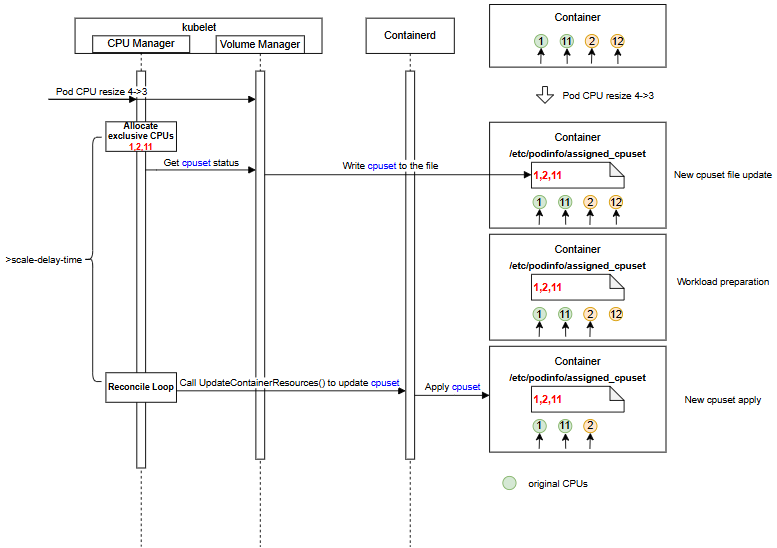
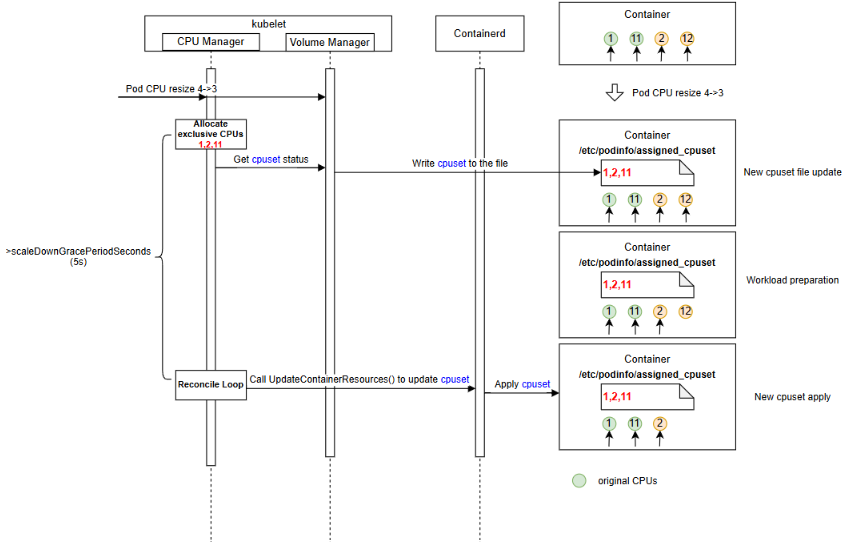
Modify images and add metric
1. Modify scale-down-delay to scaleDownGracePeriodSeconds in images
2. Add metric description in alpha
3. Modify the description: If the field is unset, the cpuset is applied at the next cpuset actuation — not immediately.

diff --git a/keps/sig-node/6122-configurable-scaling-delay/README.md b/keps/sig-node/6122-configurable-scaling-delay/README.md
@@ -36,6 +36,7 @@ tags, and then generate with `hack/update-toc.sh`.
       - [Kubelet Restart](#kubelet-restart)
     - [Resize Complete State](#resize-complete-state)
     - [Actual Resources Update](#actual-resources-update)
+    - [Metrics](#metrics)
   - [Test Plan](#test-plan)
       - [Prerequisite testing updates](#prerequisite-testing-updates)
       - [Unit tests](#unit-tests)
@@ -126,7 +127,7 @@ useful for a wide audience.
 A good summary is probably at least a paragraph in length.
 -->
 
-This proposal introduces a new pod-level field, `scaleDownGracePeriodSeconds`, which lets a pod declare a minimum delay before a new cpuset is applied to its containers after a scale-down event. Pods that do not set the field keep the current behavior, where the new cpuset is applied immediately.
+This proposal introduces a new pod-level field, `scaleDownGracePeriodSeconds`, which lets a pod declare a minimum delay before a new cpuset is applied to its containers after a scale-down event. Pods that do not set the field keep the current behavior: the new cpuset is applied at the next cpuset actuation, with no added delay.
 
 The delay gives a latency-sensitive workload a guaranteed window in which to prepare for the removal of CPUs from its cpuset — for example by migrating tasks away from the affected cores — so that performance degradation caused by sudden CPU loss is avoided. Learning *which* CPUs are about to be removed is the subject of the companion [KEP-6369](https://github.com/kubernetes/enhancements/issues/6369), which exposes the assigned cpuset through the Downward API.
 
@@ -185,7 +186,7 @@ The "Design Details" section below is for the real
 nitty-gritty.
 -->
 
-This proposal introduces a new pod-level field, `scaleDownGracePeriodSeconds`, which specifies the minimum delay before applying an updated cpuset when a container has its CPU allocation scaled down. This field is opt-in; pods that do not specify it (or set it to 0) experience immediate cpuset application, preserving the existing behavior.
+This proposal introduces a new pod-level field, `scaleDownGracePeriodSeconds`, which specifies the minimum delay before applying an updated cpuset when a container has its CPU allocation scaled down. This field is opt-in; for pods that do not specify it (or set it to 0), the new cpuset is applied at the next cpuset actuation, preserving the existing behavior.
 
 During the delay window, the container continues to use the current cpuset for at least the configured grace period. This allows latency-sensitive workloads to monitor and prepare for the upcoming CPUSet change before CPU(s) are removed from the container. The minimum delay must be guaranteed at all times, including during kubelet restarts.
 
@@ -198,7 +199,7 @@ This proposal does not require a handshake (acknowledgment) from the workload. T
 3.	The container learns the new cpuset through [KEP-6369](https://github.com/kubernetes/enhancements/issues/6369) — out of scope here, and not required for the delay itself.
 4.	The kubelet starts a 5-second timer. After waiting at least 5 seconds (the pod's specified `scaleDownGracePeriodSeconds`), the new cpuset {1, 2, 11} is applied to the container. Once applied, kubelet marks the container resize as successful.
 5.	During the interval between the notification and the new cpuset application, the container can perform necessary preparations for the DPDK workers (e.g., migrating tasks from CPU 12 to other CPUs).
-![alt text](a_case_of_scale_down_delay.png)
+![alt text](a_case_of_scale_down_delay.png )
 
 ### Risks and Mitigations
 
@@ -239,10 +240,10 @@ The overview of the design:
 ![alt text](scale_delay_overview.png)
 
 The basic flow shown in the diagram is as follows:
-- During allocation of new CPUSets, changes are not applied to assignments immediately but kept in preAssignments, and scale_delay_timers are started.
+- During allocation of new CPUSets, changes are not applied to assignments immediately but kept in preAssignments, and `scale_delay_timers` are started.
 - The new CPUSets kept in preAssignments are the values [KEP-6369](https://github.com/kubernetes/enhancements/issues/6369) exposes to the container.
 - During cpuset actuation, containers scaling down (with active `scale_delay_timer`) are skipped if the pod's `scaleDownGracePeriodSeconds` has not yet elapsed. For those where the time has passed, preAssignments are written to assignments and actuated in containers.
-- The SyncPod processes two actions after there are no active scale_delay_timer on the pod, and actuated states equal the allocated ones:
+- The SyncPod performs two actions after there is no active `scale_delay_timer` on the pod, and actuated states equal the allocated ones:
   - Marking the resize as completed
   - Updating the actual resources
 
@@ -259,6 +260,8 @@ The existing flow (before applying this KEP) among AllocationManager, CPUManager
 The flow after the modifications introduced by this KEP is as follows:
 
 ![alt text](flow_to_be.png)
+
+
 
 Regarding the ownership of resize:
 - **AllocationManager** is responsible for accepting resize and triggering the allocation phase. This KEP does not modify this part.
@@ -280,7 +283,7 @@ type PodSpec struct {
 	// CPUs during an in-place scale-down. The kubelet does not apply the new cpuset sooner
 	// than this duration after the new cpuset has been allocated.
 	// Value must be in the range [0, 10]. An unset field or the value zero
-	// applies the new cpuset immediately, with no preparation window. This field is
+	// adds no delay: the new cpuset is applied at the next cpuset actuation, with no preparation window. This field is
 	// immutable. It is honored only for containers with exclusive CPUs, and only when the
 	// InPlacePodVerticalScalingExclusiveCPUsScaleDownDelay feature gate is enabled.
 	// +optional
@@ -292,7 +295,7 @@ type PodSpec struct {
 |---|---|
 | Scope | Pod-level: applies to every container in the pod that scales down exclusive CPUs |
 | Range | `[0, 10]` seconds, validated by kube-apiserver; values outside the range are rejected |
-| Unset (`nil`) or `0` | No delay — the cpuset is applied immediately. This is the default and preserves the behavior from before this KEP |
+| Unset (`nil`) or `0` | No added delay — the cpuset is applied at the next cpuset actuation. This is the default and preserves the behavior from before this KEP |
 | Mutability | Immutable: rejected by `ValidatePodUpdate`, including as part of a resize request |
 | Feature gate disabled, pod creation | The pod is rejected in validation; the value is never dropped, so there is no `dropDisabledFields` handling for this field |
 | Feature gate disabled, pod update | Accepted if the old spec already carries the field, so that disabling the gate does not block updates of pods already using it |
@@ -313,7 +316,7 @@ Once the feature graduates to GA and the feature gate is removed, every kubelet 
 
 #### Grace Period Not Honored
 
-Scheduler filtering leaves one case open: the feature gate is turned off on a node that already runs a pod which sets `scaleDownGracePeriodSeconds` (a gate flip together with a node restart). Here the kubelet does **not** reject the pod, unlike the default handling in KEP-5328 — killing a running latency-sensitive pod is worse than resizing it without the preparation window. Instead the kubelet applies the new cpuset immediately and reports the skipped grace period:
+Scheduler filtering leaves one case open: the feature gate is turned off on a node that already runs a pod which sets `scaleDownGracePeriodSeconds` (a gate flip together with a node restart). Here the kubelet does **not** reject the pod, unlike the default handling in KEP-5328 — killing a running latency-sensitive pod is worse than resizing it without the preparation window. Instead the kubelet applies the new cpuset without the delay and reports the skipped grace period:
 
 - the `PodResizeInProgress` condition ([KEP-1287](https://github.com/kubernetes/enhancements/tree/master/keps/sig-node/1287-in-place-update-pod-resources)) carries a message stating that the grace period was not honored,
 - the kubelet emits an event with reason `ScaleDownGracePeriodNotHonored`.
@@ -327,7 +330,7 @@ The CPU Manager reads `scaleDownGracePeriodSeconds` from the spec of the pod bei
 1. In the Allocate CPU stage:
    Allocate a new CPUSet based on the container's assignments and defaultCPUset in the checkpoint (all references to "checkpoint" below refer to cpu_manager_state).
 
-   When a container scales down (If the CPU number of assignments in checkpoint > CPU request and limit for the container Pod Spec):
+   When a container scales down (if the CPU number of assignments in the checkpoint > CPU request and limit for the container in the pod spec):
    - If `scaleDownGracePeriodSeconds` is unset or 0, the container's scale down behavior is the same as before, after reallocating the new cpuset:
      - The removed_CPUs (assignments in checkpoint - new cpuset) are added to the defaultCPUset
      - The container's assignments are updated to the new cpuset
@@ -336,7 +339,7 @@ The CPU Manager reads `scaleDownGracePeriodSeconds` from the spec of the pod bei
      - A scale_delay_timer is started with the pod's `scaleDownGracePeriodSeconds` as its duration.
      - The new cpuset is saved in preAssignments, and both the preAssignments and the time at which the cpuset may be applied are recorded in the CPU manager checkpoint (see [Kubelet Restart](#kubelet-restart)).
 
-   When a container scales up (If the CPU number of assignments in checkpoint <= CPU request and limit for the container in Pod Spec), after reallocating the new cpuset:
+   When a container scales up (if the CPU number of assignments in the checkpoint <= CPU request and limit for the container in the pod spec), after reallocating the new cpuset:
    - The added_CPUs (new cpuset - assignments in checkpoint) are removed from the defaultCPUset.
    - The container's assignments are updated.
    - CPU manager checkpoint is updated immediately with new assignments and defaultCPUSet.
@@ -365,7 +368,7 @@ The following diagrams illustrate the two cases.
 
 **Case A: Timer expires before cpuset actuation time** — The scale_delay_timer expires between two cpuset actuation times. Since the timer has already expired when the next actuation time arrives, the new cpuset is applied at that actuation time as it normally would. In this case, the scale_delay_timer does not affect the actual time when the cpuset is applied.
 
-**Case B: Timer active during cpuset actuation time** — The scale_delay_timer is still active when the next cpuset actuation time arrives. The new cpuset cannot be applied at this actuation time because the timer has not yet expired. It is applied at the next actuation time after the timer expires. In this case, the actual delay is longer than the normal delay.
+**Case B: Timer active during cpuset actuation time** — The scale_delay_timer is still active when the next cpuset actuation time arrives. The new cpuset cannot be applied at this actuation time because the timer has not yet expired. It is applied at the next actuation time after the timer expires. In this case, the actual delay is longer than it would be without the timer.
 
 In both cases, the actual delay is at least `scaleDownGracePeriodSeconds`, but may be longer due to the gap between timer expiry and the cpuset actuation time.
 
@@ -416,6 +419,17 @@ The actual resources are used by the scheduler to calculate the available CPU nu
 When a pod resize passes admission, the CPU request is applied immediately (updating cpu.weight in cgroup v2), but the cpuset is applied after a delay. Therefore, in `convertToAPIContainerStatuses`, before the cpuset is applied, the actual resources are not updated; after the cpuset is applied (i.e., after at least `scaleDownGracePeriodSeconds` has elapsed and the new cpuset is applied), the actual resources are converted to the current cpu.weight value.
 
 Note: Before the checkpoint is updated and the cpuset is applied, if the runtime-reported CPU resource request (value from cpu.weight in cgroup v2) were used to update the actual resources during the delay, it would cause a mismatch between the available CPU number reported to the scheduler and the actual available CPUs in kubelet. This would result in a new pod being scheduled to the node but failing to allocate CPU resources, leading to an `UnexpectedAdmissionError`. Deferring the actual resources update until after cpuset application prevents this scenario from occurring.
+
+#### Metrics
+
+The kubelet exports the following metrics in the `cpu_manager` subsystem, all at ALPHA stability level (registered full names carry the `kubelet_` prefix):
+
+| Metric | Type | Description |
+|---|---|---|
+| `cpu_manager_scale_down_delay_total` | Counter | Total number of CPU scale-down delays, split by the `phase` label: `phase="total"` counts every scale-down delay event: a new cpuset is recorded in preAssignments and its scale_delay_timer is armed; `phase="completed"` counts a delayed release that ran to completion — the grace period elapsed and the pending cpuset was applied to the container, releasing the removed CPUs. |
+| `cpu_manager_scale_down_pending_cpu_count` | Gauge | Number of containers currently pending CPU release. |
+
+Each delayed release is counted by the `phase` label of `cpu_manager_scale_down_delay_total`: `phase="total"` counts every armed delay, including re-arms under [Consecutive Scaling](#consecutive-scaling), while `phase="completed"` counts only those that ran to completion. The difference between the two label values is the number of armed delays that have not completed: those still pending, those superseded by a newer resize request, and those dropped on restore after a revert or a node reboot (see [Kubelet Restart](#kubelet-restart)). `cpu_manager_scale_down_pending_cpu_count` reports the still-pending part of that difference; a gauge that never returns to zero points to a stuck delayed release.
 
 ### Test Plan
 
@@ -471,7 +485,7 @@ Pod API field:
 Scale-down delay in the CPU Manager:
 - `pkg/kubelet/cm/cpumanager/policy_static_test.go`: recording a pending scale-down, applying it once the grace period has elapsed, consecutive scaling in both directions, and an unset or zero `scaleDownGracePeriodSeconds`.
 - `pkg/kubelet/cm/cpumanager/cpu_assignment_test.go`: the cpuset computed for a scale-down.
-- `pkg/kubelet/cm/cpumanager/cpu_manager_test.go`: the reconcile loop applying an expired pending scale-down, and waiting for the pod sources to be synced before releasing CPUs.
+- `pkg/kubelet/cm/cpumanager/cpu_manager_test.go`: the reconcile loop applying an expired pending scale-down, waiting for the pod sources to be synced before releasing CPUs, and the [Metrics](#metrics) counter and gauge across the arm, complete and drop paths.
 - `pkg/kubelet/cm/cpumanager/topology_hints_test.go`: topology hints while a scale-down is pending.
 
 Checkpoint persistence:
@@ -577,14 +591,14 @@ The following scenarios will be tested:
 * Validation logic is in-place in kube-apiserver to validate the field (range [0, 10] seconds)
 * Kubelet enforces the scale-down delay for pods that specify `scaleDownGracePeriodSeconds`
 * Graceful handling when feature gate is disabled: delay is silently not applied (no error)
+* The metrics described in [Metrics](#metrics) — `cpu_manager_scale_down_delay_total` and `cpu_manager_scale_down_pending_cpu_count` — are added
 * Unit and e2e tests are completed with sufficient coverage
 
 #### Alpha2
 
 * No unresolved critical bugs.
 * Bugs reported by users have been addressed
-* Generalization of scale down delay to another type of resources has been analyzed.
-* New metrics or events will be considered to improve the observability of this feature.
+* Generalization of the scale-down delay to other resource types has been analyzed.
 
 #### Beta
 
@@ -698,7 +712,7 @@ well as the [existing list] of feature gates.
 [existing list]: https://kubernetes.io/docs/reference/command-line-tools-reference/feature-gates/
 -->
 
-This feature requires enabling the following feature gates
+This feature requires enabling the following feature gates:
 
 - [x] Feature gate (also fill in values in `kep.yaml`)
   - Feature gate name: `InPlacePodVerticalScalingExclusiveCPUs`
@@ -714,7 +728,7 @@ The following table shows the effect of each feature gate combination:
 |---|---|---|
 | ✗ | ✗ | Exclusive CPUs cannot be resized in place; the field cannot be set |
 | ✗ | ✓ | Rejected at kubelet startup, because the second gate depends on the first |
-| ✓ | ✗ | Exclusive CPUs can be resized; the field is rejected on creation and the new cpuset is applied immediately |
+| ✓ | ✗ | Exclusive CPUs can be resized; the field is rejected on creation and the new cpuset is applied without the delay |
 | ✓ | ✓ | Full behavior: a pod's `scaleDownGracePeriodSeconds` is honored |
 
 ###### Does enabling the feature change any default behavior?
@@ -793,7 +807,7 @@ What signals should users be paying attention to when the feature is young
 that might indicate a serious problem?
 -->
 
-No dedicated metrics are added in Alpha. The signals to watch are the `ScaleDownGracePeriodNotHonored` events, which indicate nodes applying a cpuset without the preparation window a pod asked for, and pods that stay `Pending` because no node declares the feature. Metrics are considered for Alpha2, see [Alpha2](#alpha2).
+The metrics in [Metrics](#metrics) inform a rollback: `cpu_manager_scale_down_delay_total{phase="completed"}` should catch up with `cpu_manager_scale_down_delay_total{phase="total"}` within one grace period plus one reconcile period, and `cpu_manager_scale_down_pending_cpu_count` should return to zero once all pending releases complete; a gap that does not close indicates delayed releases that are stuck or being dropped. Other signals to watch are the `ScaleDownGracePeriodNotHonored` events, which indicate nodes applying a cpuset without the preparation window a pod asked for, and pods that stay `Pending` because no node declares the feature.
 
 ###### Were upgrade and rollback tested? Was the upgrade->downgrade->upgrade path tested?
 
@@ -847,13 +861,15 @@ checking if there are objects with field X set) may be a last resort. Avoid
 logs or events for this purpose.
 -->
 
-No metric is added in Alpha. Since the feature is requested through a pod field, the pods using it can be listed directly:
+Since the feature is requested through a pod field, the pods using it can be listed directly:
 
 ```
 kubectl get pods -A -o custom-columns='NS:.metadata.namespace,NAME:.metadata.name,GRACE:.spec.scaleDownGracePeriodSeconds'
 ```
 
 The nodes able to honor it are those declaring `InPlacePodVerticalScalingExclusiveCPUsScaleDownDelay` in `node.status.declaredFeatures`.
+
+Usage is also visible in the metrics: a non-zero `cpu_manager_scale_down_delay_total{phase="total"}` on a node means the node has started at least one delayed scale-down, and a non-zero `cpu_manager_scale_down_pending_cpu_count` means at least one container on it is currently inside its grace period.
 
 ###### How can someone using this feature know that it is working for their instance?
 
@@ -890,7 +906,7 @@ question.
 - A scale-down of a pod that sets `scaleDownGracePeriodSeconds` is never actuated sooner than that grace period. This is the guarantee the feature exists to provide, so violations should be zero.
 - The new cpuset is applied at the first cpuset actuation after the grace period elapses, so the wait beyond the grace period is bounded by one reconcile period.
 - Scale-up is never delayed by this feature.
-- A kubelet restart does not extend the total wait beyond the grace period plus one reconcile period.
+- A kubelet restart does not re-arm the grace period: the total wait is extended only by the time the kubelet is down plus the pod-source sync that precedes any CPU release, never by a second grace period.
 
 
 ###### What are the SLIs (Service Level Indicators) an operator can use to determine the health of the service?
@@ -912,7 +928,7 @@ Describe the metrics themselves and the reasons why they weren't added (e.g., co
 implementation difficulties, etc.).
 -->
 
-Yes. A histogram of the delay between a scale-down being accepted and the new cpuset being applied, and a counter of grace periods that could not be honored, would let an operator check the SLOs above without inspecting individual pods. Neither is implemented in Alpha; both are considered for Alpha2, see [Alpha2](#alpha2).
+The counter and gauge described in [Metrics](#metrics) are added in Alpha and give an aggregate view of how many scale-down delays start and complete. A histogram of the delay between a scale-down being accepted and the new cpuset being applied would additionally let an operator check the timing SLO without inspecting individual pods; it is not implemented yet and remains a candidate for Beta.
 
 ### Dependencies
 
@@ -1167,7 +1183,7 @@ The following alternatives were considered:
 
 ### 3. Immediate Actuation (No Delay)
 
-* **Description**: Apply the new cpuset immediately when the scale-down request is processed, without any delay.
+* **Description**: Apply the new cpuset at the next cpuset actuation after the scale-down request is processed, without any added delay.
 * **Why Rejected**: This is the current behavior without this KEP. Immediate actuation does not give workloads time to prepare for CPU removal. Latency-sensitive applications (e.g., DPDK workloads) may experience performance degradation because they cannot migrate tasks away from CPUs being removed. This KEP addresses this gap by introducing a configurable delay window.
 
 ### 4. Handshake-Based Synchronization
@@ -1209,9 +1225,9 @@ The following alternatives were considered:
   
   2. **Implementation Complexity**: Extending the delay mechanism to other resource types requires coordination across multiple resource managers (Memory Manager, DRA framework, etc.) and potentially new APIs. Each resource type has different semantics for what "graceful release" means.
   
-  3. **Limited Use Cases**: As of today, exclusive CPUs are the primary use case requiring delayed scale-down. Not all of other resource types have in-place scaling implementations that would benefit from this feature.
+  3. **Limited Use Cases**: As of today, exclusive CPUs are the primary use case requiring delayed scale-down. Not all other resource types have in-place scaling implementations that would benefit from this feature.
   
-  4. **Need for User Feedback**: The SIG Node community agreed to collect user feedback from the Alpha1 implementation of the CPU-focused delay mechanism before designing a more generalized solution. This feedback will inform whether and how to extend the feature to other resource types.
+  4. **Need for User Feedback**: The SIG Node community agreed to collect user feedback from the Alpha implementation of the CPU-focused delay mechanism before designing a more generalized solution. This feedback will inform whether and how to extend the feature to other resource types.
 
 ### 9. No Persistence of Pending Scale-Down State
 
